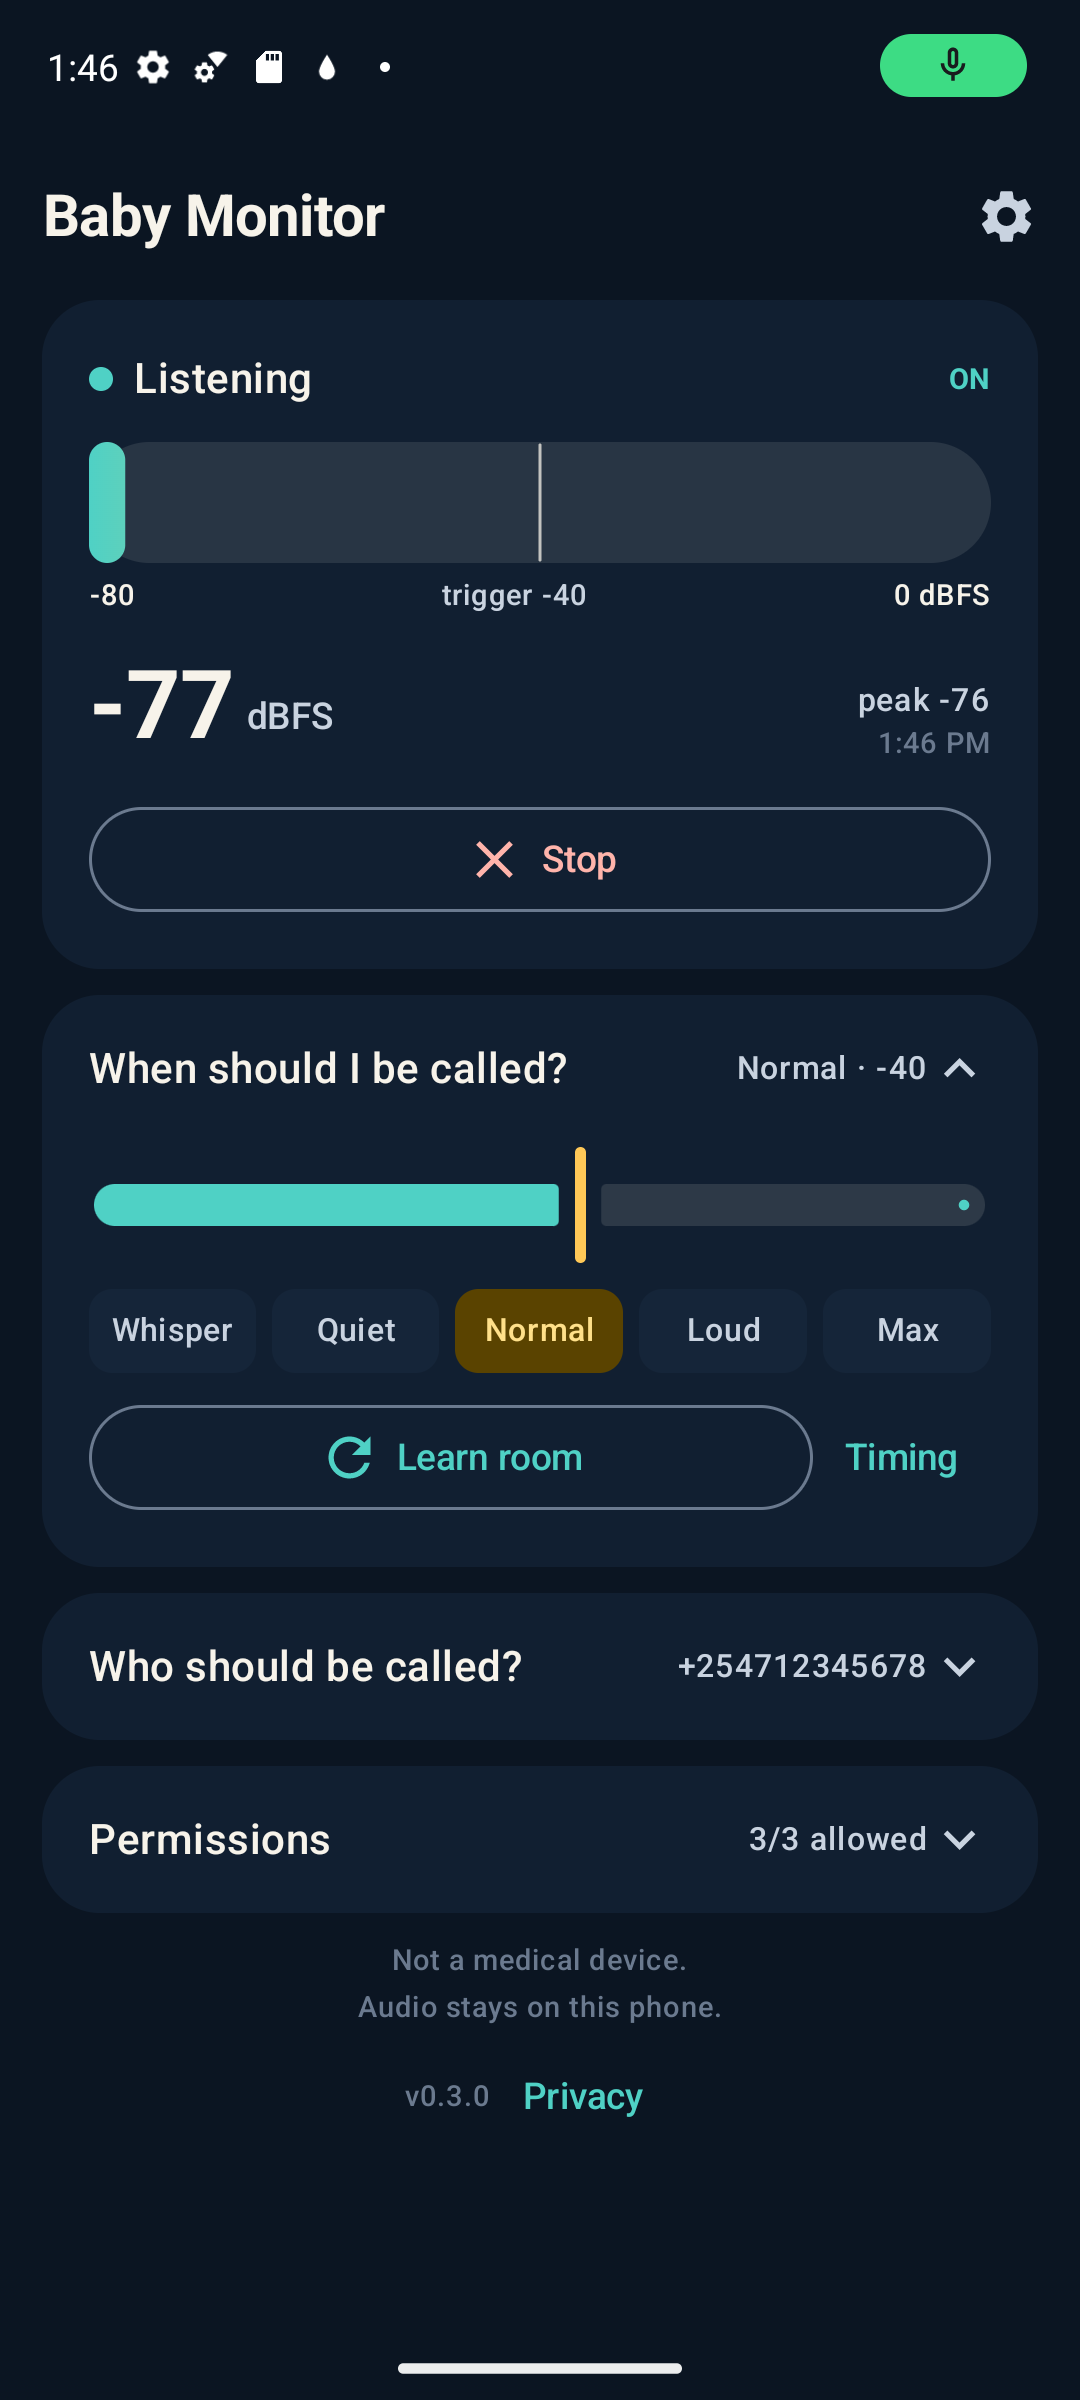
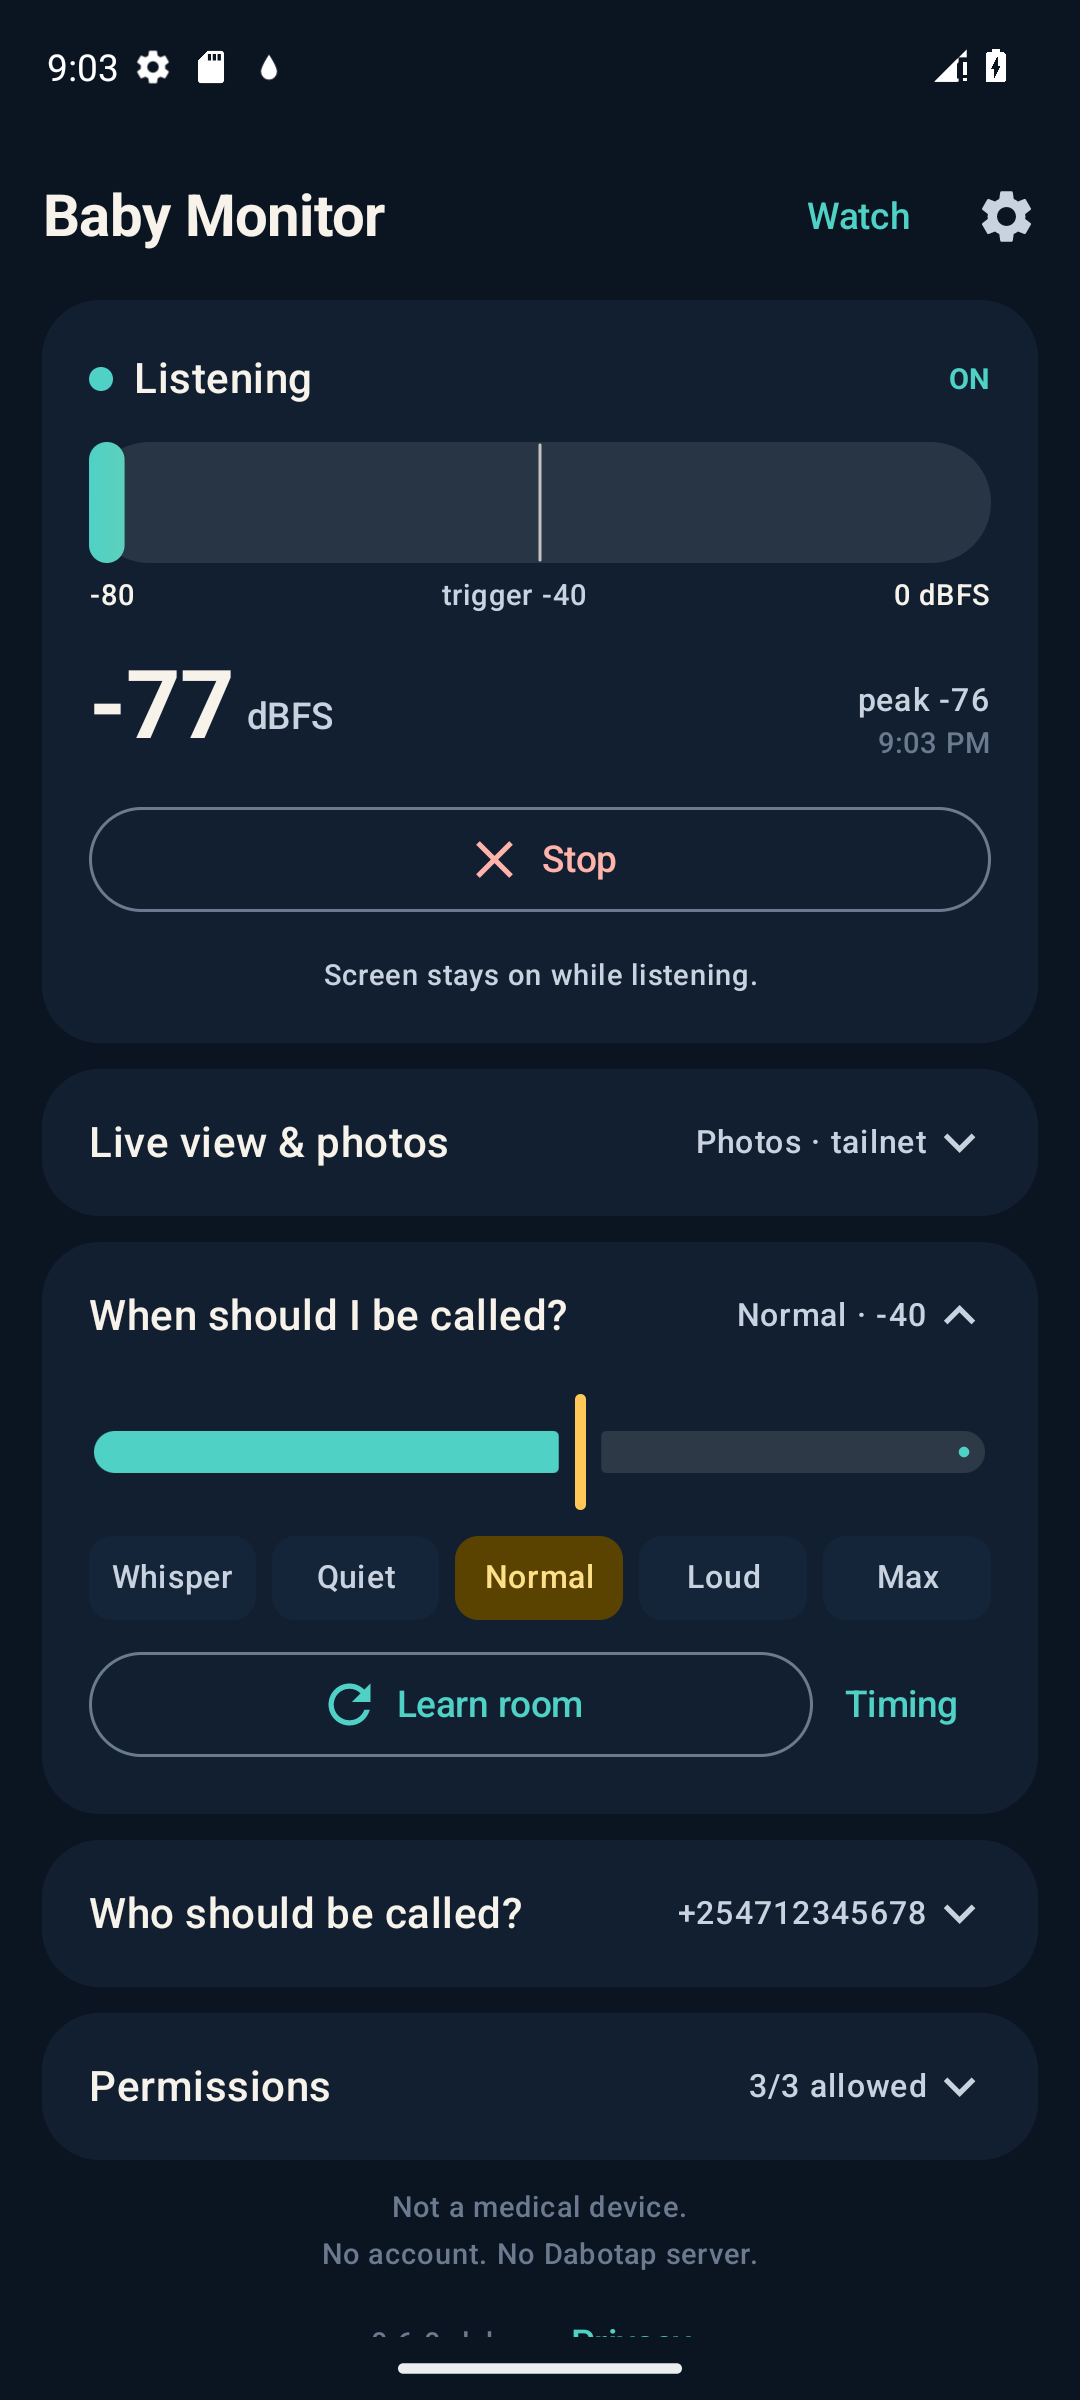
Update Baby Monitor site

diff --git a/privacy.html b/privacy.html
@@ -26,7 +26,7 @@
 
   <main class="wrap policy">
     <h1>Privacy policy</h1>
-    <p class="meta">Baby Monitor for Android · Effective 12 November 2026 · Version 1.4</p>
+    <p class="meta">Baby Monitor for Android · Effective 12 November 2026 · Version 2.0</p>
 
     <p>
       Baby Monitor (“the app”, “we”, “us”) is a noise monitor for Android,
@@ -36,7 +36,8 @@
       Live view, the room’s audio and (optionally) video go directly to another device
       on your own Wi-Fi. If you turn on Remote photos, a single photo at a time can be
       requested by the phone you paired, over your own Tailscale network. We never
-      receive your audio, video or photos.</strong>
+      receive your audio, video or photos. There are no ads, no advertising SDK and
+      no tracking.</strong>
     </p>
 
     <h2>1. Who we are</h2>
@@ -66,6 +67,11 @@
       When you turn it on and pair one phone, that phone can ask this camera for a
       single photo over your own Tailscale network. It is photos only: there is no
       remote live video or audio. Dabotap runs no relay and receives no copy.
+    </p>
+    <p>
+      <strong>There are no ads.</strong> The app has no advertising SDK, no advertising
+      ID and no consent form. The only internet access is the optional remote-photo
+      request over the network you supply (Tailscale).
     </p>
 
     <h2>3. Audio, video, Live view and Remote photos</h2>
@@ -110,6 +116,7 @@
         <tr><td>Nearby Wi-Fi (multicast)</td><td>To advertise this phone on the local network and keep discovery and the stream alive with the screen off.</td></tr>
         <tr><td>Full-screen alerts</td><td>To show the alert over the lock screen. On Android 14+ this is special access; without it the alert appears as a high-priority notification.</td></tr>
         <tr><td>Wake lock, vibrate</td><td>To keep the CPU alive during monitoring and to make the alert noticeable.</td></tr>
+        <tr><td>Internet</td><td>Only for Remote photos: one authenticated request to the camera over your own Tailscale network. There is no ad traffic and no Dabotap server.</td></tr>
       </tbody>
     </table>
 
@@ -120,19 +127,8 @@
       <li>No audio, transcripts or recordings.</li>
       <li>No account, contacts, calendar or files.</li>
       <li>No audio, video or photo uploaded to us: Live view is a direct connection between two devices on your Wi-Fi, and remote photos travel directly between your two phones over your Tailscale network.</li>
+      <li>No advertising ID, ad data, tracking or profiling: the app contains no advertising or analytics SDK.</li>
     </ul>
-
-    <h3>Advertising</h3>
-    <p>
-      The app is free and shows one banner ad supplied by <strong>Google AdMob</strong>.
-      AdMob may collect device identifiers (including the advertising ID), IP address,
-      approximate location and ad interactions, and may share that data with Google and
-      its ad partners for advertising. Audio is never sent to AdMob or any advertiser.
-      Where required (for example in the EEA, UK and Switzerland), the app shows a
-      Google consent form before requesting ads. You can decline: the monitor still
-      works and the banner simply does not load. Google’s privacy policy:
-      <a href="https://policies.google.com/privacy">policies.google.com/privacy</a>.
-    </p>
 
     <h2>8. Sharing</h2>
     <p>
@@ -142,10 +138,9 @@
       into. Tailscale carries the encrypted traffic and may process connection
       metadata (which of your devices connected, when, and how much data) under
       <a href="https://tailscale.com/privacy-policy">Tailscale’s privacy policy</a>;
-      it cannot read the photo, and Dabotap receives nothing. The banner ad is served
-      by Google AdMob, which may collect and share the advertising data described above
-      under Google’s privacy policy. Google Play also processes install and crash
-      information under its own policy. Those are between you and Google.
+      it cannot read the photo, and Dabotap receives nothing. Google Play processes
+      install and crash information under its own policy. That is between you and
+      Google.
     </p>
 
     <h2>9. Retention and deletion</h2>
@@ -181,7 +176,6 @@
       <li>Stop monitoring at any time from the app or its notification.</li>
       <li>Revoke microphone, phone or notification access in Android Settings.</li>
       <li>Clear the app’s storage or uninstall it to delete the number and settings.</li>
-      <li>Decline the ad consent form where it is shown; the banner will not load.</li>
       <li>Turn Live view off, or press Stop while watching, to end a local stream immediately.</li>
       <li>Turn Remote photos off, or press <strong>New code</strong> on the camera phone, to revoke the paired phone; press <strong>Forget this camera</strong> on the viewer to remove your half.</li>
     </ul>

diff --git a/index.html b/index.html
@@ -4,12 +4,12 @@
   <meta charset="utf-8">
   <meta name="viewport" content="width=device-width, initial-scale=1">
   <title>Baby Monitor — any noise, one call</title>
-  <meta name="description" content="Baby Monitor is an Android noise monitor. Set a level; this phone listens and calls your number when the room gets loud. Optional live view on your Wi-Fi, and optional remote photos over your own Tailscale network — no account and no Dabotap server.">
+  <meta name="description" content="Baby Monitor is an Android noise monitor. Set a level; this phone listens and calls your number when the room gets loud. Optional live view on your Wi-Fi, and optional remote photos over your own Tailscale network — free, no ads, no account and no Dabotap server.">
   <meta name="theme-color" content="#0B1522">
   <link rel="icon" href="icon.svg" type="image/svg+xml">
   <link rel="stylesheet" href="styles.css">
   <meta property="og:title" content="Baby Monitor">
-  <meta property="og:description" content="Any noise. One call. A free Android baby monitor with an optional second screen on your own Wi-Fi, and remote photos over your own Tailscale network.">
+  <meta property="og:description" content="Any noise. One call. A free, ad-free Android baby monitor with an optional second screen on your own Wi-Fi, and remote photos over your own Tailscale network.">
   <meta property="og:type" content="website">
   <meta property="og:url" content="https://monitor.dabotap.com/">
 </head>
@@ -38,7 +38,7 @@
           <a class="btn primary" href="mailto:brian@dabotap.com?subject=Baby Monitor%20launch%20note">Get launch note</a>
           <a class="btn ghost" href="#how">How it works</a>
         </div>
-        <p class="fineprint">Your room, your network. Free, ad-supported. No account.</p>
+        <p class="fineprint">Your room, your network. Free, no ads. No account.</p>
       </div>
       <div class="phone">
         <div class="notch" aria-hidden="true"></div>
@@ -81,8 +81,8 @@
             <p>Microphone frames become a loudness number, then are discarded.</p>
           </article>
           <article class="card">
-            <h3>Ads, not audio</h3>
-            <p>A banner ad keeps it free. Audio is never shared with advertisers.</p>
+            <h3>No ads</h3>
+            <p>No advertising SDK, no advertising ID, no tracking. Just the monitor.</p>
           </article>
           <article class="card">
             <h3>Local settings</h3>

diff --git a/support.html b/support.html
@@ -26,7 +26,7 @@
 
   <main class="wrap policy">
     <h1>Support</h1>
-    <p class="meta">Baby Monitor for Android · version 0.6.0</p>
+    <p class="meta">Baby Monitor for Android · version 0.7.0</p>
 
     <p>
       The first build is being prepared for Google Play. These are the questions the
@@ -87,8 +87,8 @@
       <details>
         <summary>Does it need internet?</summary>
         <p>
-          The monitor, alert and call work offline. The free banner ad needs internet;
-          if you are offline, the monitor keeps working and the ad stays blank. The
+          The monitor, alert and call work offline. Only optional remote photos need
+          internet, through your own Tailscale network. The
           call itself uses your mobile network, as any call does.
         </p>
       </details>

diff --git a/README.md b/README.md
@@ -42,7 +42,7 @@ curl -sSI --resolve monitor.dabotap.com:443:<edge-ip> https://monitor.dabotap.co
 
 ## Before publishing
 
-- Keep `site/privacy.html` in step with `docs/PRIVACY.md` and the Play Data safety form, including the
-  AdMob advertising section.
+- Keep `site/privacy.html` in step with `docs/PRIVACY.md` and the Play Data safety form. The app has
+  no ad SDK; the policy must stay that way unless the product changes.
 - Replace `brian@dabotap.com` if the support inbox changes.
 - Do not add analytics, tracking pixels or a mailing-list form.
